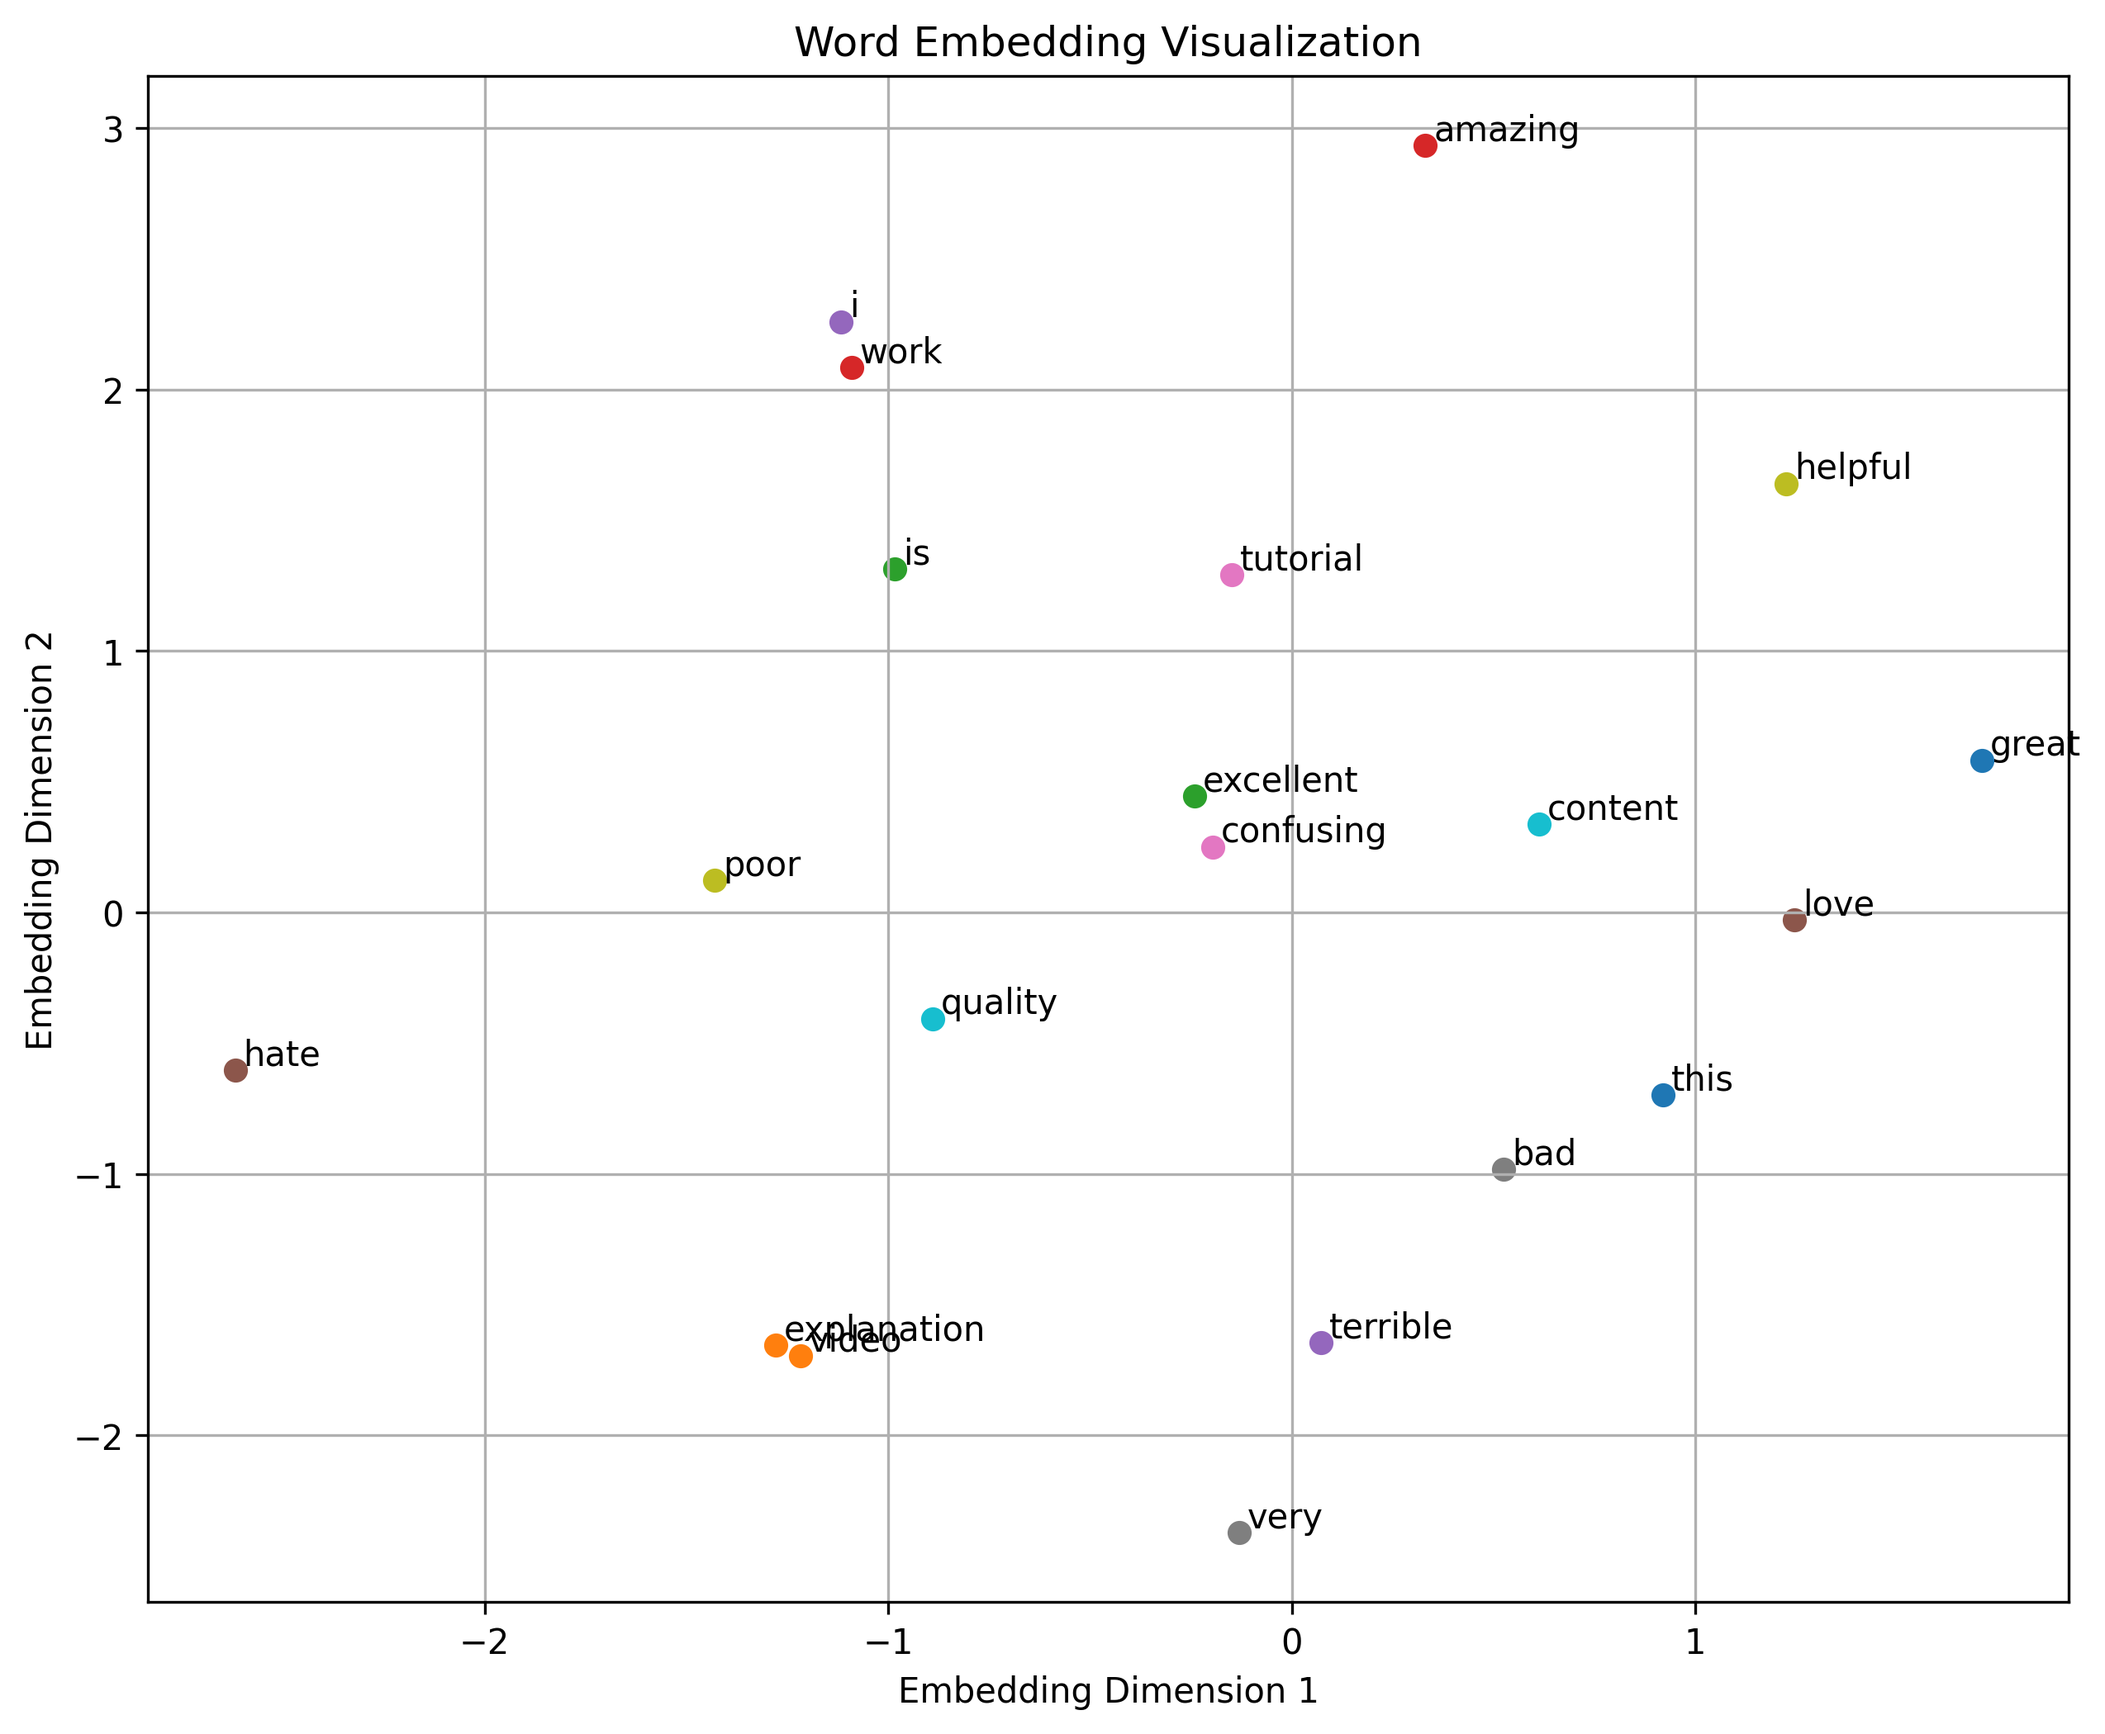
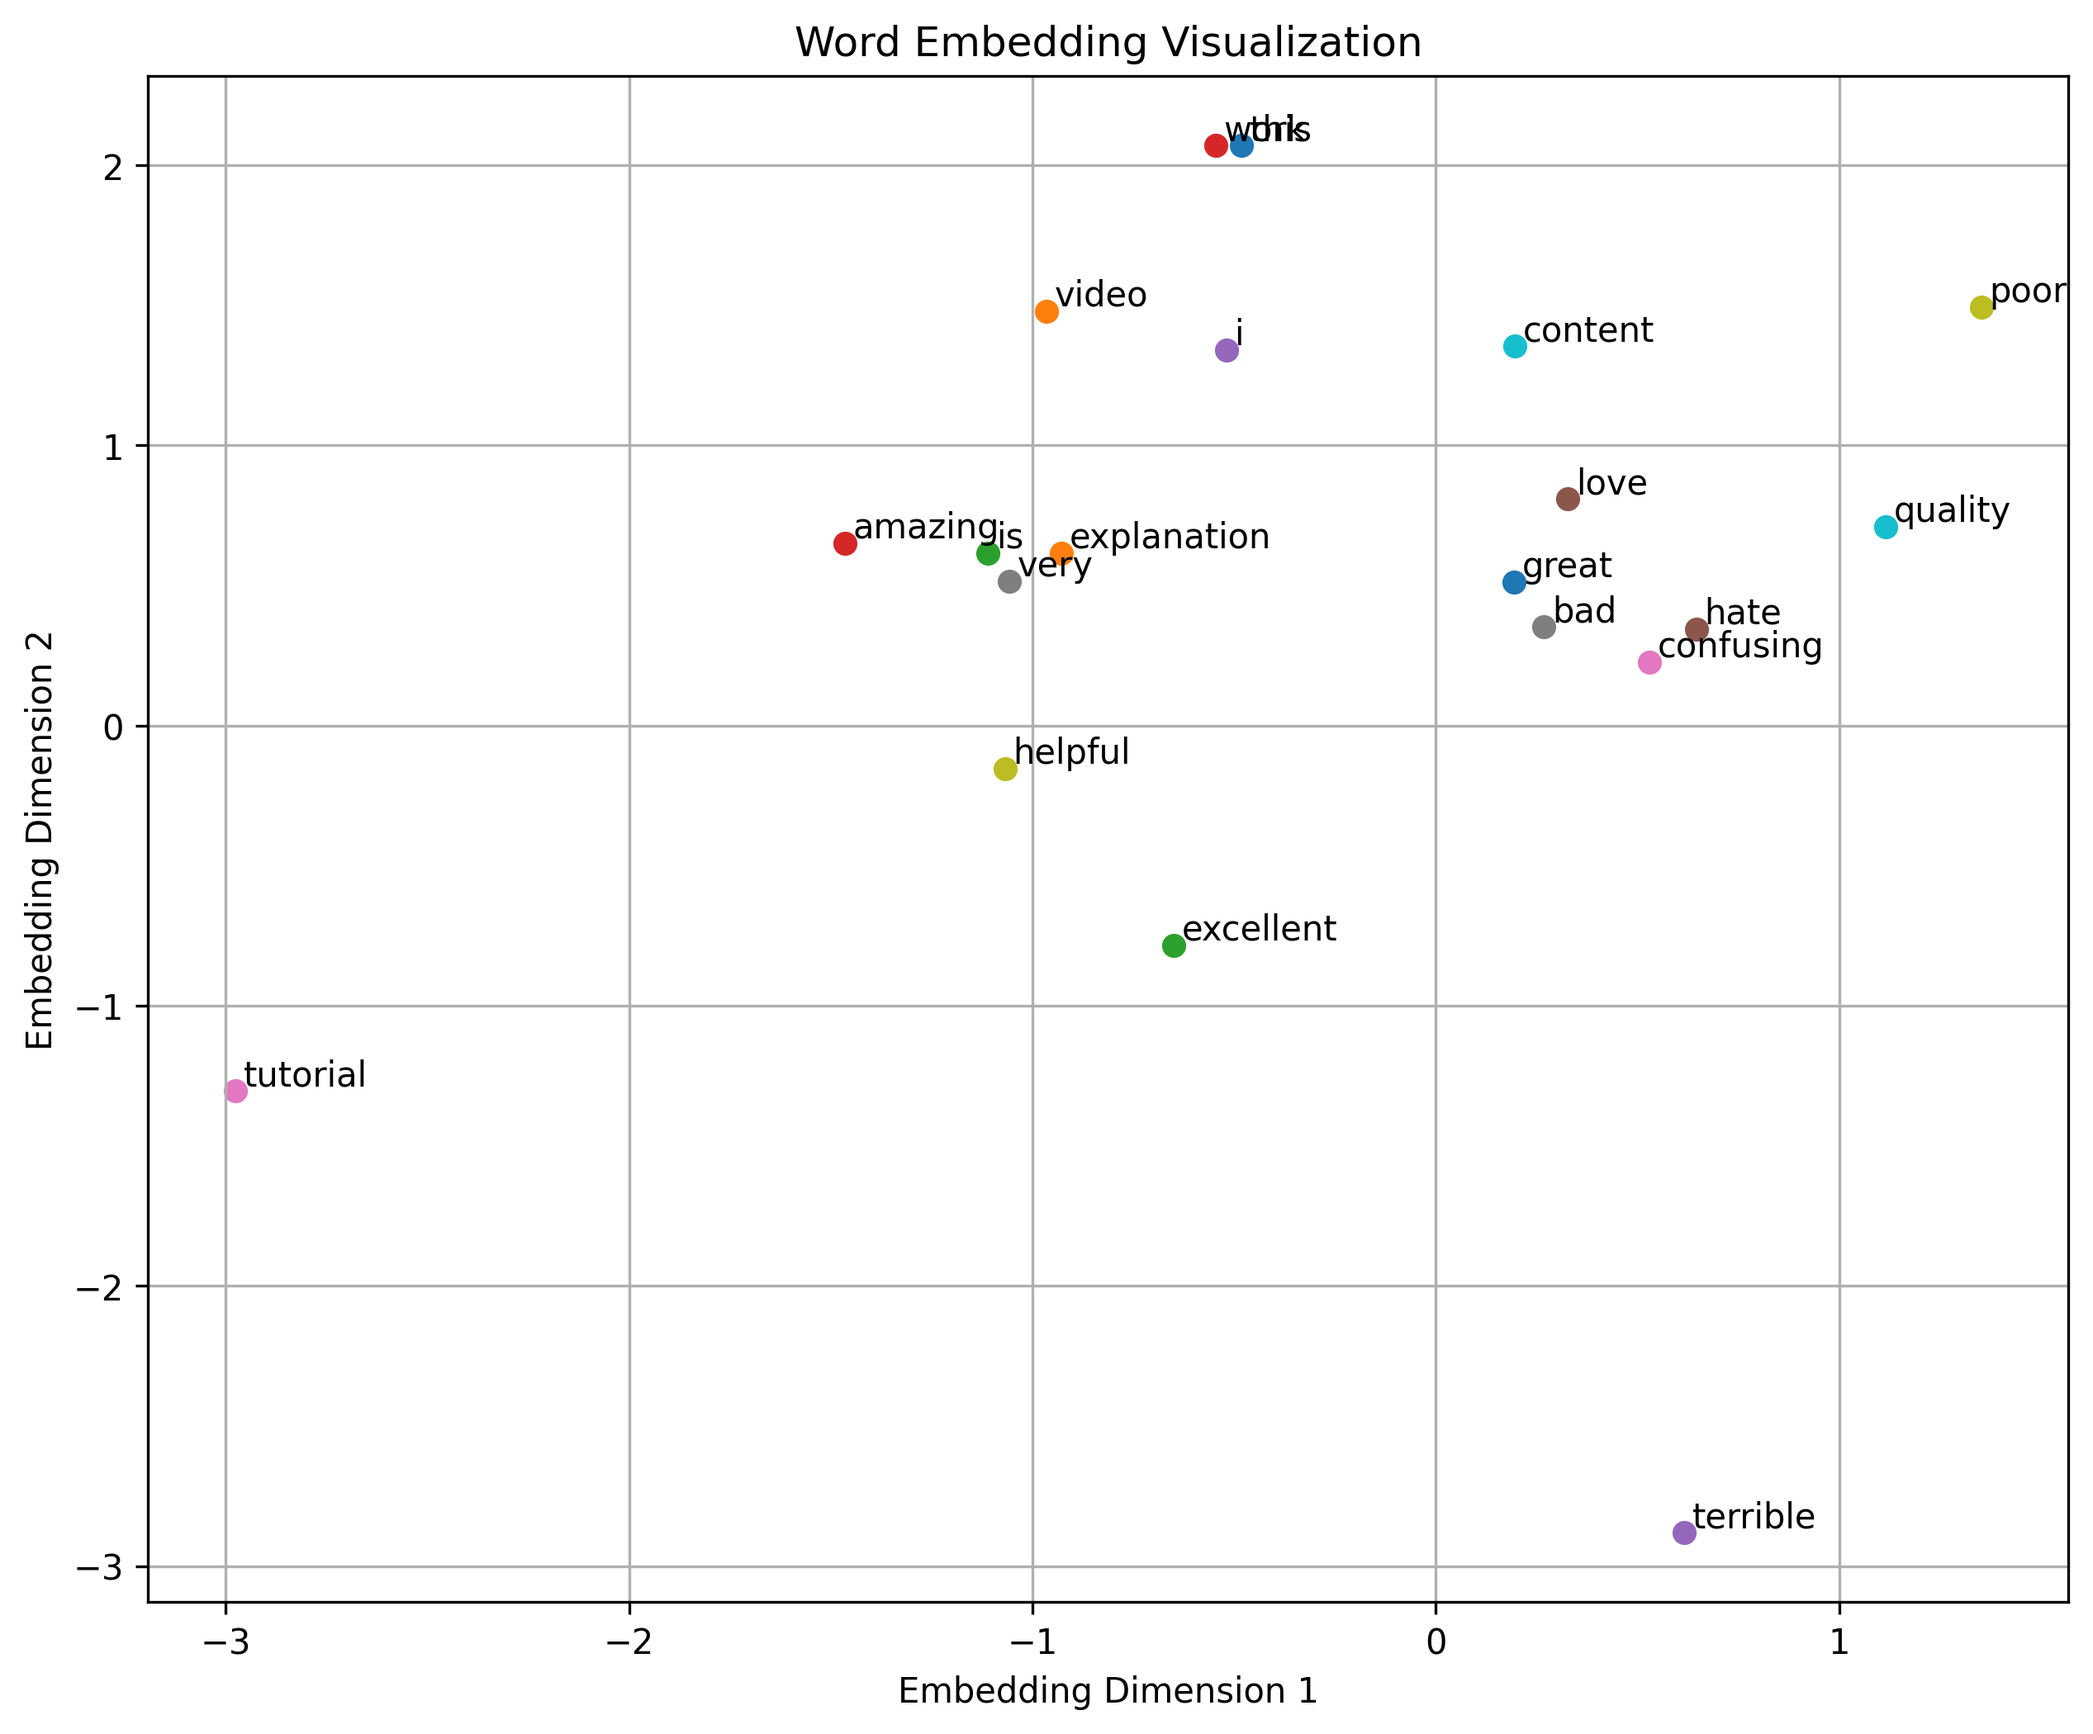
context aware token handling added

diff --git a/projects/network_ml_system/ml/sentiment_analysis/model.py b/projects/network_ml_system/ml/sentiment_analysis/model.py
@@ -33,7 +33,180 @@ class SentimentModel(nn.Module):
 
         self.sigmoid = nn.Sigmoid()
 
+   
     def forward(self, x):
+
+    # -----------------------------------
+    # Convert token IDs into embeddings
+    #
+    # Shape:
+    # [batch, sequence]
+    #
+    # becomes:
+    #
+    # [batch, sequence, embedding_dim]
+    # -----------------------------------
+
+      embedded = self.embedding(x)
+
+    # -----------------------------------
+    # Compute token-to-token similarity
+    #
+    # embedded:
+    # [batch, sequence, embedding_dim]
+    #
+    # embedded.transpose(1, 2):
+    # [batch, embedding_dim, sequence]
+    #
+    # Result:
+    # [batch, sequence, sequence]
+    #
+    # Each token compares itself
+    # with every other token
+    # -----------------------------------
+
+      attention_scores = torch.matmul(
+        embedded,
+        embedded.transpose(1, 2)
+      )
+
+    # -----------------------------------
+    # Convert similarity scores into
+    # probability distribution
+    #
+    # Softmax makes each row sum to 1
+    #
+    # Higher score =
+    # stronger attention relationship
+    # -----------------------------------
+
+      attention_weights = torch.softmax(
+        attention_scores,
+        dim=2
+      )
+
+    # -----------------------------------
+    # Apply self-attention
+    #
+    # attention_weights:
+    # [batch, sequence, sequence]
+    #
+    # embedded:
+    # [batch, sequence, embedding_dim]
+    #
+    # Result:
+    # [batch, sequence, embedding_dim]
+    #
+    # Each token representation now
+    # becomes context-aware using
+    # other tokens
+    # -----------------------------------
+
+      attended = torch.matmul(
+        attention_weights,
+        embedded
+      )
+
+    # -----------------------------------
+    # Aggregate sequence information
+    #
+    # Mean pooling across sequence
+    # dimension
+    # -----------------------------------
+
+      pooled = attended.mean(dim=1)
+
+    # -----------------------------------
+    # Linear classification layer
+    # -----------------------------------
+
+      output = self.fc(pooled)
+
+    # -----------------------------------
+    # Convert logits into probability
+    # -----------------------------------
+
+      output = self.sigmoid(output)
+
+    # -----------------------------------
+    # Return prediction and attention
+    # weights for inspection
+    # -----------------------------------
+
+      return output, attention_weights
+
+
+##########################################################
+
+"""    def forward(self, x):
+
+    # -----------------------------------
+    # Convert token IDs into embeddings
+    # Shape:
+    # [batch, sequence]
+    # ->
+    # [batch, sequence, embedding_dim]
+    # -----------------------------------
+
+       embedded = self.embedding(x)
+
+    # -----------------------------------
+    # Compute attention scores
+    # by averaging embedding dimensions
+    # -----------------------------------
+
+       attention_scores = embedded.mean(dim=2)
+
+    # -----------------------------------
+    # Convert scores into probabilities
+    # across sequence dimension
+    # -----------------------------------
+
+       attention_weights = torch.softmax(
+       attention_scores,
+       dim=1
+       )
+
+    # -----------------------------------
+    # Expand weights for multiplication
+    # Shape:
+    # [batch, sequence]
+    # ->
+    # [batch, sequence, 1]
+    # -----------------------------------
+
+       attention_weights = attention_weights.unsqueeze(2)
+
+    # -----------------------------------
+    # Apply attention weights
+    # -----------------------------------
+
+       weighted_embeddings = (
+       embedded * attention_weights
+       )
+
+    # -----------------------------------
+    # Aggregate weighted embeddings
+    # -----------------------------------
+
+       pooled = weighted_embeddings.sum(dim=1)
+
+    # -----------------------------------
+    # Linear classification
+    # -----------------------------------
+
+       output = self.fc(pooled)
+
+    # -----------------------------------
+    # Convert to probability
+    # -----------------------------------
+
+       output = self.sigmoid(output)
+
+       #return output
+       return output, attention_weights
+
+      def forward(self, x):
 
         # -----------------------------------
         # Convert word IDs to embeddings
@@ -64,4 +237,4 @@ class SentimentModel(nn.Module):
 
         output = self.sigmoid(output)
 
-        return output
+        return output"""

diff --git a/projects/network_ml_system/ml/sentiment_analysis/infer.py b/projects/network_ml_system/ml/sentiment_analysis/infer.py
@@ -85,14 +85,45 @@ input_tensor = torch.tensor(
 
 with torch.no_grad():
 
-    prediction = model(input_tensor)
+   # prediction = model(input_tensor)
+    prediction, attention_weights = model(input_tensor)
 
 # -----------------------------------
 # Extract probability
 # -----------------------------------
 
 probability = prediction.item()
+# -----------------------------------
+# Display attention weights
+# -----------------------------------
 
+words = text.lower().split()
+
+weights = attention_weights.squeeze().tolist()
+
+attention = attention_weights.squeeze()
+
+print("\nAttention Matrix:\n")
+
+for i, word in enumerate(words):
+
+    print(f"\n{word} attends to:\n")
+
+    for j, target_word in enumerate(words):
+
+        score = attention[i][j].item()
+
+        print(
+            f"  {target_word} -> {score:.4f}"
+        )
+        
+"""print("\nAttention Weights:\n")
+
+for word, weight in zip(words, weights):
+
+    print(
+        f"{word} -> {weight:.4f}"
+    )"""
 # -----------------------------------
 # Determine sentiment
 # -----------------------------------

diff --git a/projects/network_ml_system/ml/sentiment_analysis/train.py b/projects/network_ml_system/ml/sentiment_analysis/train.py
@@ -47,7 +47,8 @@ epochs = 500
 for epoch in range(epochs):
 
     # Forward pass
-    predictions = model(X_tensor)
+   # predictions = model(X_tensor)
+    predictions, attention_weights = model(X_tensor)
 
     # Compute loss
     loss = criterion(
